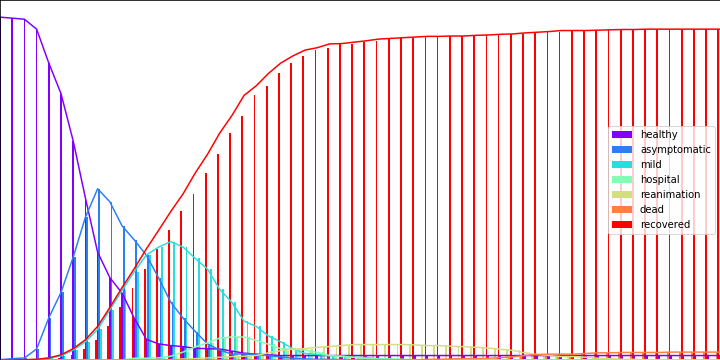
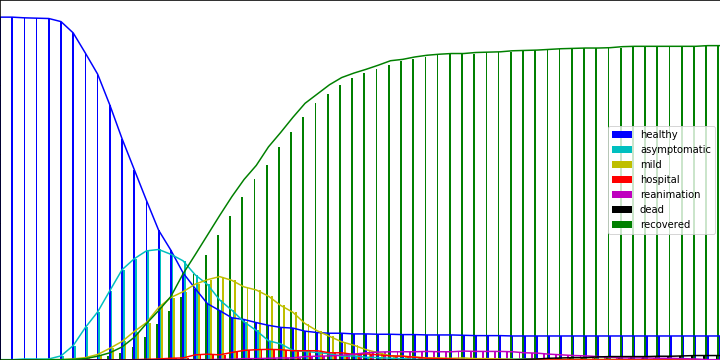
propagation chain added to CAST article

Changed region(s): [[0.0, 0.0306, 1.0, 1.0]]

diff --git a/_posts/2020-04-22-cast-prediction-propagation.md b/_posts/2020-04-22-cast-prediction-propagation.md
@@ -30,6 +30,14 @@ Concernant l'évolution du nombre d'agents dans les différents états au cours 
 
 ![CAST state time evolution](/img/nevolution.png?raw=true "CAST state time evolution")
 
+On s'aperçoit ici que le modèle retrouve "naturellement" le concept d'immunité collective après qu'une certaine proportion de la population ait été contaminée. "Naturellement", car résultant de l'évolution de la simulation, sans que ça ait été paramétré.
+
+L'implémentation du modèle *CAST* permet aussi de garder trace de qui a infecté qui, ce qu'on peut ensuite visualiser en plus de l'évolution entre états des agents:
+
+![CAST contamination state evolution](/img/chainevolution.gif?raw=true "CAST contamination state evolution")
+
+Cette traçabilité de la chaîne de contamination permet ensuite de modéliser par exemple l'effet du *contact tracing* pour contenir l'épidémie.
+
 Voir le [notebook compagnon](https://github.com/parcoor/py-propagsim/blob/master/examples/example0.ipynb) pour reproduire ces résultats.
 
 
